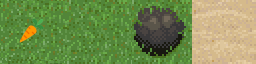
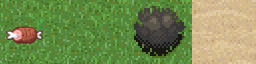
change style

Changed region(s): [[0.0, 0.3125, 0.1875, 0.6875]]

diff --git a/main.cpp b/main.cpp
@@ -30,7 +30,7 @@ int main()
 
     RenderWindow window(sf::VideoMode(SCREEN_WIDHT, SCREEN_HEIGHT), "SFML test sample!");
 	view.reset(sf::FloatRect(0, 0, 400, 280));
-    Player my_player( "images/stone.png", 90,  90);
+    Player my_player( "images/wolf.png", 80,  80);
     
 	Clock clock;
 	
@@ -57,7 +57,6 @@ int main()
             {
                 t_GameOver.setString("Game Over");
                 t_GameOver.setPosition(view.getCenter().x-60, view.getCenter().y-50);
-                //view.move(0.1, 0);
                 view.rotate(0.001);
             }
 
@@ -96,7 +95,6 @@ int main()
                 }
             }
             
-			//move_cam(my_player.get_x(), my_player.get_y());
 			move_map(time);
 
 			window.draw(my_player.sprite);

diff --git a/player.h b/player.h
@@ -46,7 +46,7 @@ class Player
 
 };
 
-Player::Player(String user_file, float user_w, float user_h, float user_center_x = 200, float user_center_y = 200, int user_max_frame = 4 )
+Player::Player(String user_file, float user_w, float user_h, float user_center_x = 200, float user_center_y = 200, int user_max_frame = 3 )
 {
 	
 	file_name = user_file;
